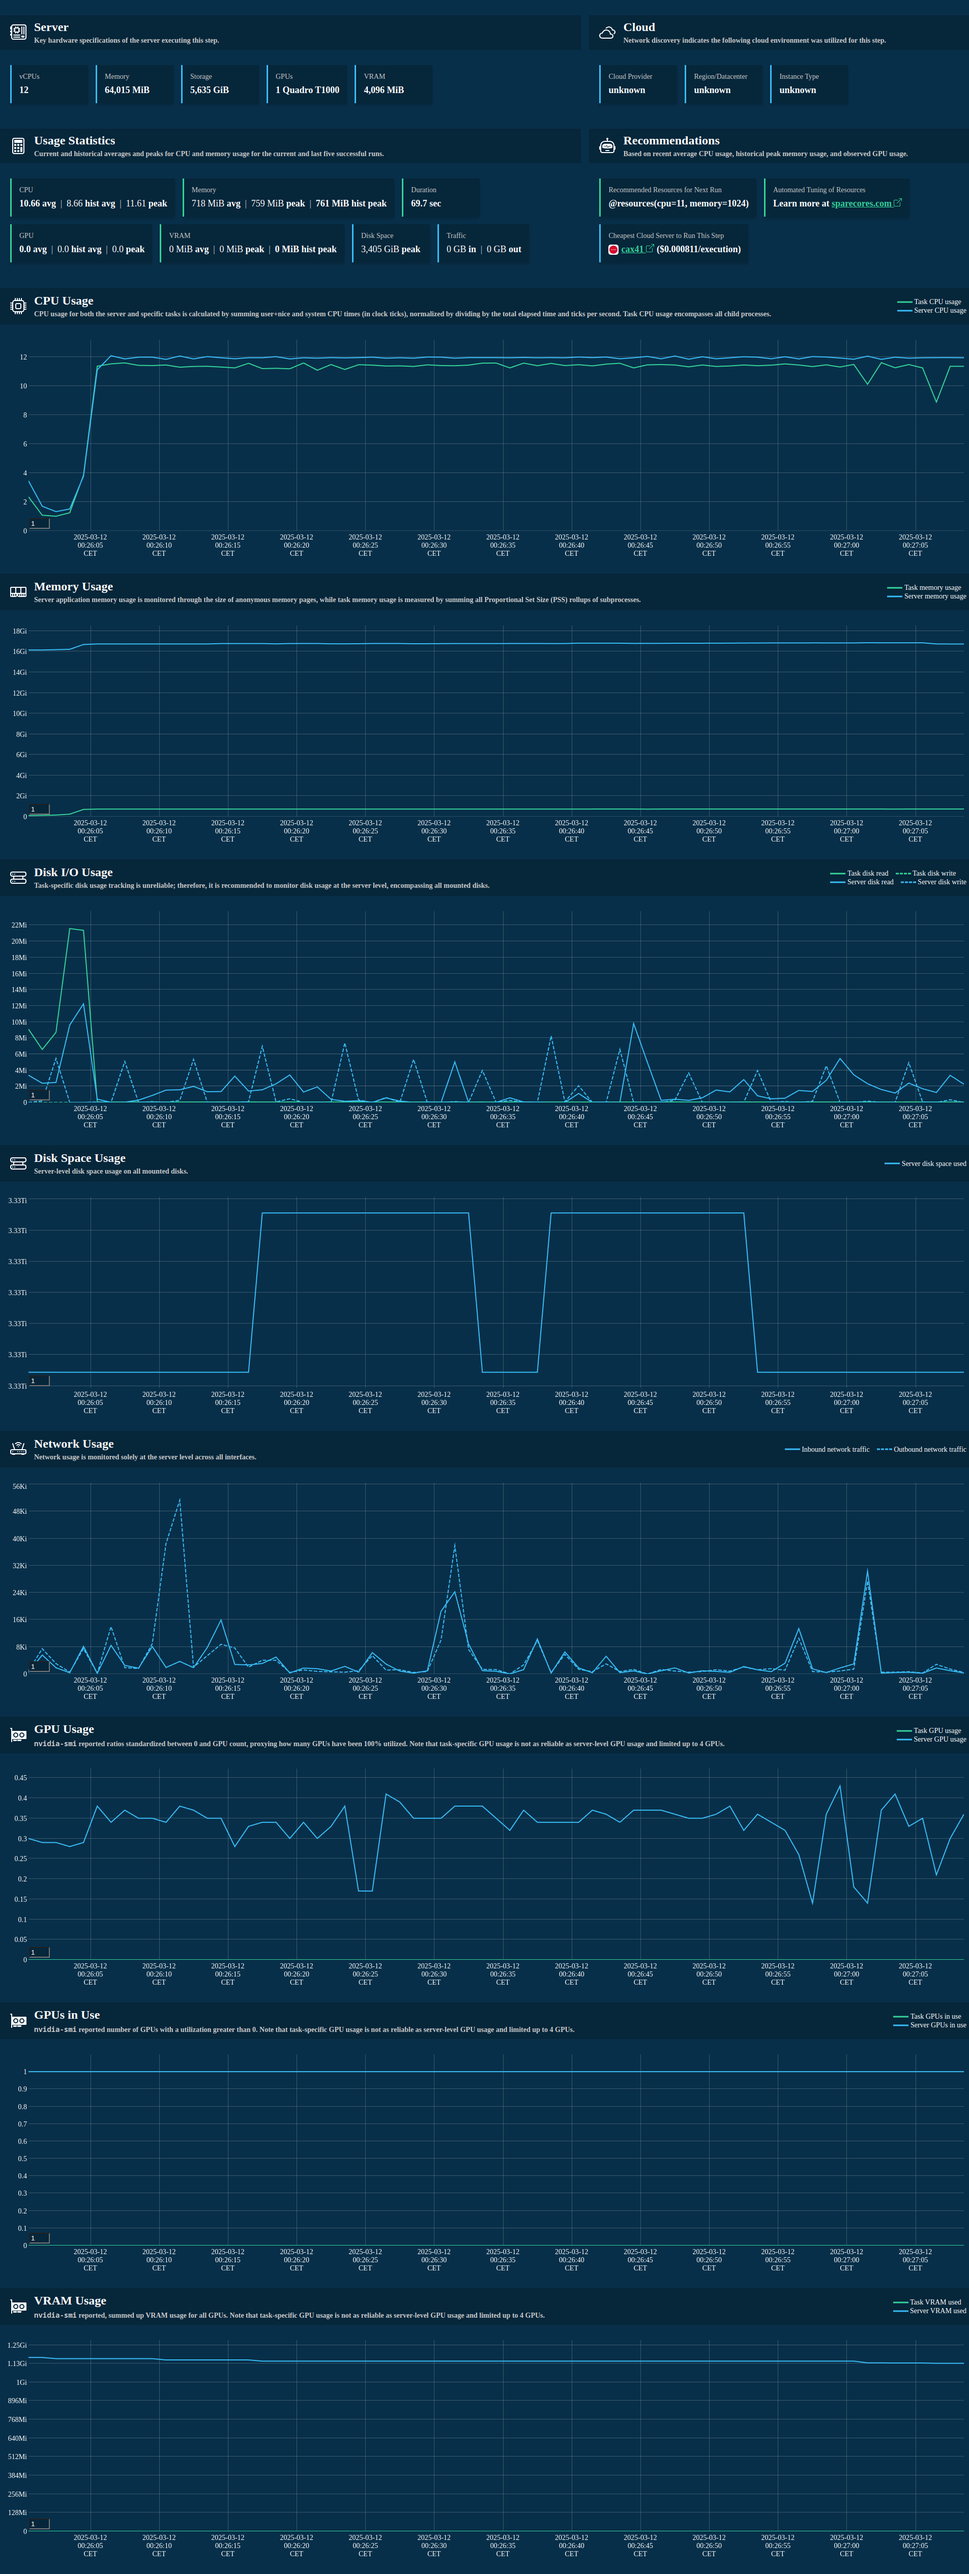
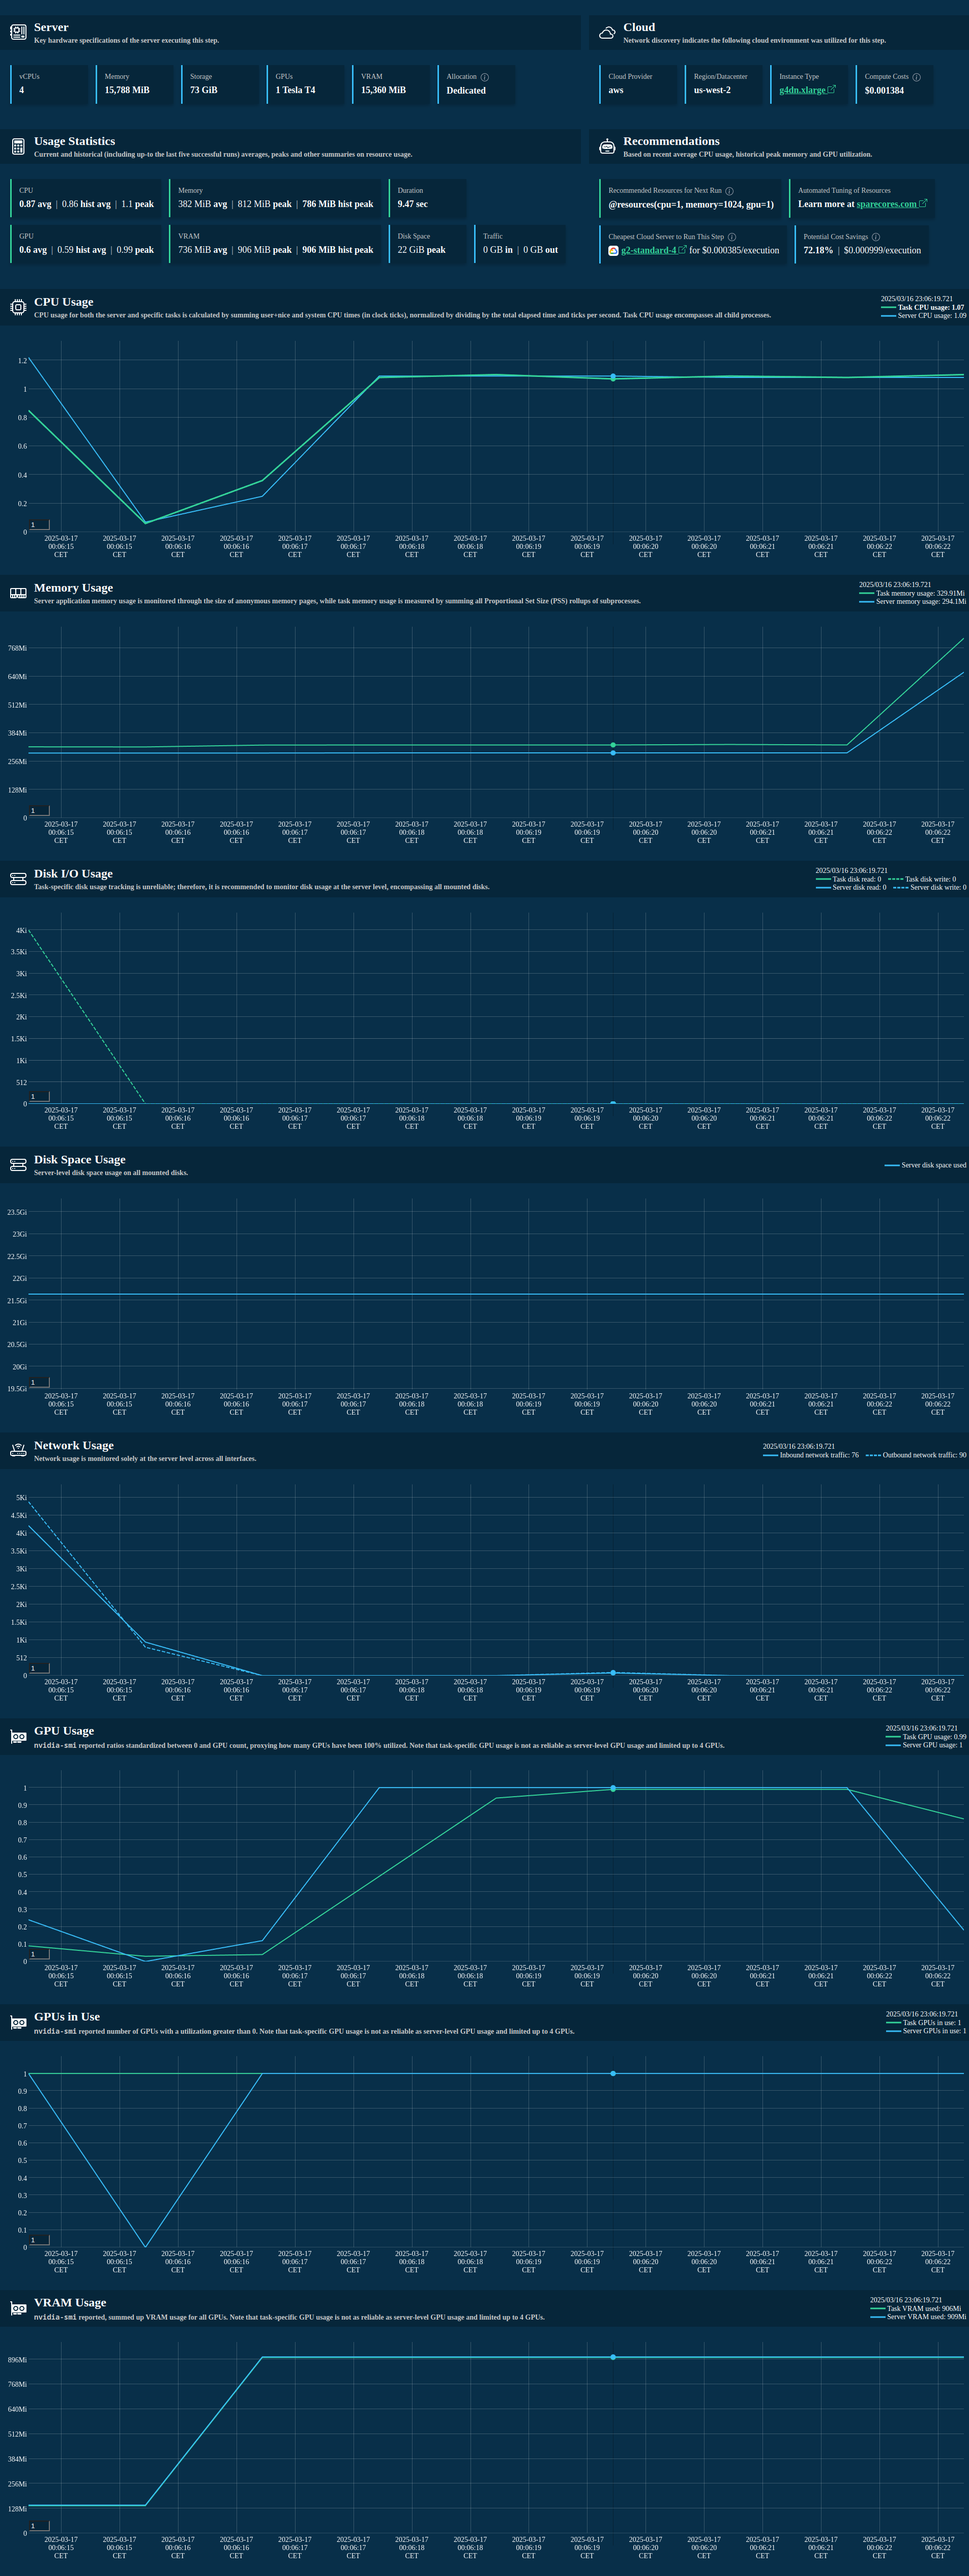
language improvements

diff --git a/README.md b/README.md
@@ -1,7 +1,12 @@
 # resource-tracker
 
-A no-dependency Python package for tracking resource usage of processes and
-system-wide, with a focus on batch jobs like Metaflow steps.
+A lightweight, zero-dependency Python package for monitoring resource usage
+across processes and at the server level. Designed with batch jobs in mind (like
+Metaflow steps), it provides simple tools to track CPU, memory, GPU, network,
+and disk utilization with minimal setup -- e.g. using a simple step decorator in
+Metaflow to automatically track resource usage and generate a card with data
+visualizations on historical resource usage and cloud server recommendations for
+future runs.
 
 ## Installation
 
@@ -27,9 +32,9 @@ from resource_tracker import SystemTracker
 tracker = SystemTracker()
 ```
 
-Would track system-wide resource usage, including CPU, memory, GPU, network
+`SystemTracker` tracks system-wide resource usage, including CPU, memory, GPU, network
 traffic, disk I/O and space usage every 1 second, and write CSV to the standard
-output stream by default, e.g.:
+output stream by default. Example output:
 
 ```sh
 "timestamp","processes","utime","stime","cpu_usage","memory_free","memory_used","memory_buffers","memory_cached","memory_active_anon","memory_inactive_anon","disk_read_bytes","disk_write_bytes","disk_space_total_gb","disk_space_used_gb","disk_space_free_gb","net_recv_bytes","net_sent_bytes","gpu_usage","gpu_vram","gpu_utilized"
@@ -38,12 +43,12 @@ output stream by default, e.g.:
 1741785687.6766264,1148012,38,34,0.7199,37850036,26301016,16,1400724,13043036,1009284,40960,49152,5635.25,3405.81,2229.44,10602,9682,0.26,1029.0,1
 ```
 
-This can be redirected to a file by passing a path to the `csv_file_path`
+The default stream can be redirected to a file by passing a path to the `csv_file_path`
 argument, and can use different intervals for sampling via the `interval`
 argument.
 
-The `PidTracker` class tracks resource usage of a running process and its
-children recursively in a similar manner, although somewhat limited in
+The `PidTracker` class tracks resource usage of a running process and optionally
+all its children (recursively), in a similar manner, although somewhat limited in
 functionality, as e.g. `nvidia-smi pmon` can only track up-to 4 GPUs, and
 network traffic monitoring is not available.
 
@@ -66,14 +71,19 @@ get_server_info()
 # {'vcpus': 4, 'memory_mb': 15788.21, 'gpu_count': 1, 'gpu_names': ['Tesla T4'], 'gpu_memory_mb': 15360.0}
 ```
 
+Spare Cores integration can do further lookups for the current server type, e.g.
+to calculate the cost of running the current job and recommend cheaper cloud
+server types for future runs.
+
 ## Metaflow Integration
 
 The package also comes with a Metaflow extension for tracking resource usage of
 Metaflow steps, including the visualization of the collected data in a card with
-recommended `@resources` and cheapest cloud server type for future runs.
+recommended `@resources` and cheapest cloud server type for future runs, along
+with basic cost estimates.
 
-To get started, import the `track_resources` decorator from `metaflow` and use it to decorate your
-Metaflow steps:
+To get started, import the `track_resources` decorator from `metaflow` and use
+it to decorate your Metaflow steps:
 
 ```python
 from metaflow import Flow, FlowSpec, step, track_resources
@@ -162,7 +172,7 @@ Find more examples in the [examples](https://github.com/SpareCores/resource-trac
 
 ## References
 
+- PyPI: <https://pypi.org/project/resource-tracker>
 - Documentation: <https://sparecores.github.io/resource-tracker>
 - Source code: <https://github.com/SpareCores/resource-tracker>
-- PyPI: <https://pypi.org/project/resource-tracker>
-- Spare Cores: <https://sparecores.com>
+- Project roadmap and feedback form: <https://sparecores.com/feedback/metaflow-resource-tracker>

diff --git a/CHANGELOG.md b/CHANGELOG.md
@@ -1,3 +1,11 @@
+## v0.1.1 (March 17, 2025)
+
+- Fix rounding down recommended vCPUs with <0.5 load
+- Add info popups with more details and disclaimers for recommendations
+- Detect if the server is shared with other tasks
+- Add potential cost savings card
+- Documentation improvements
+
 ## v0.1.0 (March 12, 2025)
 
 Initial PyPI release of `resource-tracker` with the following features:
